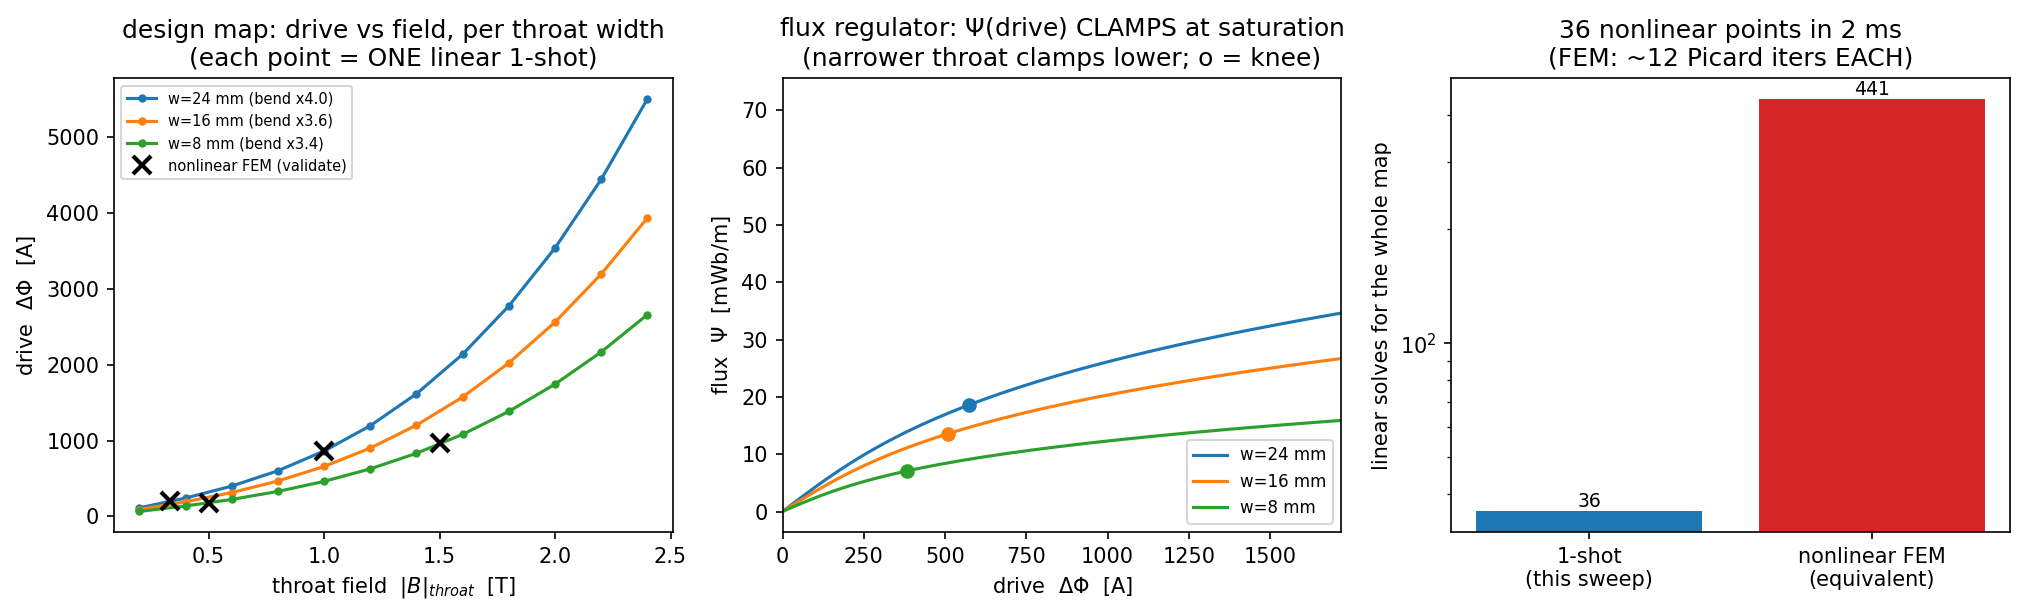
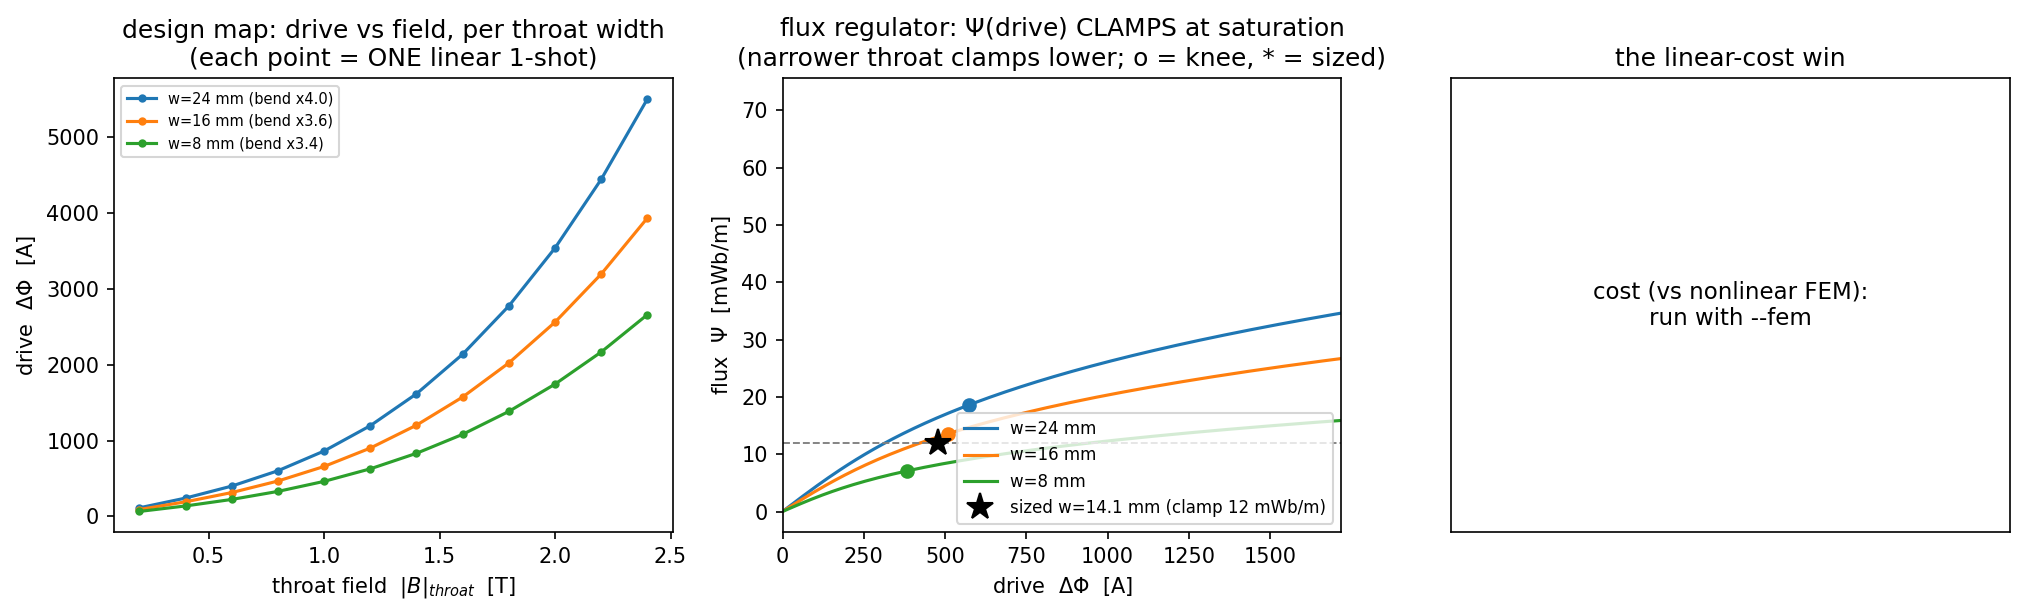
clebsch-hodograph: inverse design (spec -> geometry) at linear cost, FEM-verified
Continues the saturation pillar of the hodograph line (the BDM 2026-06-26 report).
The Chaplygin design sweep already gave the forward map + flux-regulator clamp at
linear cost; this adds the engineer's actual step -- spec -> geometry -- which was
missing.

- chaplygin_design_sweep_2d.py: size_for_clamp(target) sizes the throat so the flux
  regulator CLAMPS at a target flux, by bisecting the throat depth (the clamp knee is
  monotone in depth). A handful of mesh-free 1-shot quadratures, sub-second, hits the
  target to machine precision (12 mWb/m -> w = 14.1 mm). run(with_fem=True) then
  CLOSES the design loop: the sized design is confirmed by the full nonlinear FEM
  (1-shot 477 A vs FEM 483 A, 1.2 %). _plot marks the sized design on the clamp panel.
- Goldens: test_chaplygin_inverse_design_sizing (fast: hits target, sub-second,
  target in feasible range) + the loop-close assertion in
  test_chaplygin_design_sweep_vs_fem (slow).

This is the inverse half of "the hodograph makes saturation a coefficient": not just
explore the nonlinear design space at linear cost, but size a part to a spec and
verify it -- a real design loop, at linear cost.

diff --git a/examples/clebsch_hodograph/chaplygin_design_sweep_2d.py b/examples/clebsch_hodograph/chaplygin_design_sweep_2d.py
@@ -155,6 +155,44 @@ def validate_vs_fem(samples=((0.012, (0.008, 0.024)),), mur0=200.0, Bk=1.0,
     }
 
 
+def size_for_clamp(target_clamp_Psi, H=0.04, depth_lo=0.002, depth_hi=0.0195,
+                   n_bisect=42, **kw):
+    """INVERSE DESIGN at linear cost: size the throat so the flux regulator CLAMPS at a
+    target flux level (the knee flux ``target_clamp_Psi``).  This is the engineer's
+    actual step -- spec -> geometry -- not just a forward sweep.  The clamp knee
+    ``knee_Psi`` is monotone-DECREASING in the throat depth (a narrower throat clamps
+    lower), so bisect on the depth; every candidate is a handful of 1-shot quadratures,
+    so the whole sizing is milliseconds and mesh-free.  Returns the sized geometry and
+    the achieved clamp (verify it against the full nonlinear FEM via ``validate_vs_fem``
+    at the sized depth to CLOSE the design loop)."""
+    t0 = time.perf_counter()
+
+    def knee(d):
+        return transfer_curve(d, H=H, **kw)["knee_Psi"]
+
+    lo, hi = depth_lo, depth_hi
+    klo, khi = knee(lo), knee(hi)                     # klo (wide) > khi (narrow)
+    for _ in range(n_bisect):
+        mid = 0.5 * (lo + hi)
+        if knee(mid) > target_clamp_Psi:             # too much clamp flux -> narrow it
+            lo = mid
+        else:
+            hi = mid
+    depth = 0.5 * (lo + hi)
+    tc = transfer_curve(depth, H=H, **kw)
+    return {
+        "target_clamp_Psi": float(target_clamp_Psi),
+        "sized_depth": float(depth),
+        "sized_w_throat": float(H - 2.0 * depth),
+        "achieved_knee_Psi": float(tc["knee_Psi"]),
+        "achieved_knee_drive": float(tc["knee_drive"]),
+        "achieved_knee_B": float(tc["knee_B"]),
+        "rel_err": float(abs(tc["knee_Psi"] - target_clamp_Psi) / target_clamp_Psi),
+        "sizing_seconds": float(time.perf_counter() - t0),
+        "feasible_Psi_range": [float(khi), float(klo)],   # [narrowest, widest]
+    }
+
+
 def cost_summary(mp, val):
     """The linear-cost win: M map points at 1 quadrature each vs the equivalent
     nonlinear FEM (M points x mean Picard iterations linear solves)."""
@@ -169,15 +207,19 @@ def cost_summary(mp, val):
     }
 
 
-def run(with_fem=False):
+def run(with_fem=False, target_clamp_mWb=12.0):
     mp = design_map()
     curves = [transfer_curve(d) for d in mp["depths"]]
-    out = {"design_map": mp, "transfer": curves}
+    sizing = size_for_clamp(target_clamp_mWb * 1e-3)        # spec -> geometry (linear cost)
+    out = {"design_map": mp, "transfer": curves, "sizing": sizing}
     if with_fem:
         val = validate_vs_fem(samples=((0.008, (0.008, 0.024)),
                                        (0.016, (0.004, 0.012))))
         out["validation"] = val
         out["cost"] = cost_summary(mp, val)
+        # CLOSE the design loop: FEM-verify the SIZED design at its clamp knee.
+        out["sizing_fem"] = validate_vs_fem(
+            samples=((sizing["sized_depth"], (sizing["achieved_knee_Psi"],)),))
     return out
 
 
@@ -208,8 +250,15 @@ def _plot(out):
         axB.plot(np.array(c["drive"]), np.array(c["Psi"]) * 1e3, "-", color=colors[i % 4],
                  label=f"w={c['w_throat']*1e3:.0f} mm")
         axB.plot(c["knee_drive"], c["knee_Psi"] * 1e3, "o", color=colors[i % 4], ms=6)
+    sz = out.get("sizing")
+    if sz is not None:                                # the INVERSE design: spec -> width
+        axB.axhline(sz["target_clamp_Psi"] * 1e3, color="0.5", ls="--", lw=0.9)
+        axB.plot(sz["achieved_knee_drive"], sz["achieved_knee_Psi"] * 1e3, "*",
+                 color="k", ms=13,
+                 label=f"sized w={sz['sized_w_throat']*1e3:.1f} mm "
+                       f"(clamp {sz['target_clamp_Psi']*1e3:.0f} mWb/m)")
     axB.set_xlabel("drive  $\\Delta\\Phi$  [A]"); axB.set_ylabel("flux  $\\Psi$  [mWb/m]")
-    axB.set_title("flux regulator: $\\Psi$(drive) CLAMPS at saturation\n(narrower throat clamps lower; o = knee)")
+    axB.set_title("flux regulator: $\\Psi$(drive) CLAMPS at saturation\n(narrower throat clamps lower; o = knee, * = sized)")
     axB.set_xlim(0, max(c["knee_drive"] for c in out["transfer"]) * 3.0)
     axB.legend(fontsize=8, loc="lower right")
 
@@ -250,6 +299,18 @@ def main():
         print(f"    w_throat = {c['w_throat']*1e3:4.0f} mm:  clamp knee at Psi = {c['knee_Psi']*1e3:.2f} "
               f"mWb/m  (B_throat = {c['knee_B']:.2f} T, drive = {c['knee_drive']:.0f} A)")
     print(f"    -> a narrower throat clamps the flux at a LOWER level (knee Psi ~ Bk*w_throat).")
+    sz = out["sizing"]
+    print(f"  INVERSE DESIGN (spec -> geometry, linear cost):")
+    print(f"    target clamp Psi = {sz['target_clamp_Psi']*1e3:.1f} mWb/m"
+          f"  ->  sized throat w = {sz['sized_w_throat']*1e3:.2f} mm"
+          f"  (depth {sz['sized_depth']*1e3:.2f} mm)")
+    print(f"    achieved clamp = {sz['achieved_knee_Psi']*1e3:.2f} mWb/m "
+          f"(rel.err {sz['rel_err']:.1e}) at drive {sz['achieved_knee_drive']:.0f} A, "
+          f"sized in {sz['sizing_seconds']*1e3:.1f} ms")
+    if "sizing_fem" in out:
+        sf = out["sizing_fem"]["rows"][0]
+        print(f"    FEM check of the sized design: 1-shot {sf['one_shot_drive']:.1f} A "
+              f"vs FEM {sf['fem_drive']:.1f} A (rel.err {sf['rel_err']:.1e}) -> design loop CLOSED")
     if with_fem:
         val, cost = out["validation"], out["cost"]
         print(f"  nonlinear FEM validation (Picard loop at {len(val['rows'])} sample points):")

diff --git a/tests/feec/test_clebsch_hodograph_research.py b/tests/feec/test_clebsch_hodograph_research.py
@@ -685,6 +685,23 @@ def test_chaplygin_design_sweep_linear_cost():
         assert 0.4 * c["w_throat"] < c["knee_Psi"] < 1.2 * c["w_throat"], c
 
 
+def test_chaplygin_inverse_design_sizing():
+    """INVERSE DESIGN at linear cost: spec -> geometry.  Size the throat so the flux
+    regulator CLAMPS at a TARGET flux (the knee), by bisecting the throat depth -- the
+    clamp knee is monotone in depth, so a handful of mesh-free 1-shot quadratures (no
+    Picard, no mesh) hit the target to machine precision.  This is the engineer's actual
+    step (spec -> geometry), not just a forward sweep."""
+    pytest.importorskip("ngsolve")
+    pytest.importorskip("netgen.occ")
+    import chaplygin_design_sweep_2d as ds
+    sz = ds.size_for_clamp(12.0e-3)
+    assert sz["rel_err"] < 1e-6, sz                      # hits the target clamp flux
+    assert sz["sizing_seconds"] < 2.0, sz                # sub-second, mesh-free
+    lo, hi = sz["feasible_Psi_range"]
+    assert lo < sz["target_clamp_Psi"] < hi, sz          # target inside feasible range
+    assert 0.0 < sz["sized_w_throat"] < 0.04, sz         # a physical throat width
+
+
 @pytest.mark.slow
 def test_chaplygin_design_sweep_vs_fem():
     """Validate the LINEAR design sweep against the full NONLINEAR FEM Picard loop: the
@@ -701,6 +718,9 @@ def test_chaplygin_design_sweep_vs_fem():
     # the whole map is one quadrature per point; the equivalent FEM is many solves.
     assert cost["one_shot_solves"] == cost["map_points"], cost
     assert cost["fem_equiv_linear_solves"] > 5 * cost["one_shot_solves"], cost
+    # the design loop CLOSES: the inverse-sized design is confirmed by the nonlinear FEM.
+    sf = out["sizing_fem"]["rows"][0]
+    assert sf["rel_err"] < 5e-2, sf
 
 
 def test_chaplygin_turning_design_sweep_linear():

diff --git a/examples/clebsch_hodograph/README.md b/examples/clebsch_hodograph/README.md
@@ -233,9 +233,17 @@ Picard** at sample points: the 1-shot agrees to **~1–2 %** (slenderness-limite
 and each FEM point costs **~12 Picard iterations**. So the whole map = **36
 quadratures** vs the equivalent **~440 curved-mesh linear solves** the nonlinear
 FEM would need — the **entire nonlinear design space explored at linear cost**,
-where the Picard sweep would be prohibitive. Figure:
-`chaplygin_design_sweep_2d.png` (design map | the clamp curves | the cost bar).
-Goldens `test_chaplygin_design_sweep_*` (map+clamp fast, FEM-validate+cost slow).
+where the Picard sweep would be prohibitive. **Inverse design (spec → geometry)**:
+`size_for_clamp(target)` sizes the throat so the regulator **clamps at a target
+flux** by bisecting the throat depth (the clamp knee is monotone in depth) — a
+handful of mesh-free 1-shot quadratures, **sub-second**, hitting the target to
+machine precision (e.g. **12 mWb/m → w = 14.1 mm**); the **sized design is then
+confirmed by the full nonlinear FEM** (1-shot 477 A vs FEM 483 A, **1.2 %**) — the
+**design loop closes**. This is the engineer's actual step (spec → geometry), not
+just a forward sweep. Figure: `chaplygin_design_sweep_2d.png` (design map | the
+clamp curves with the sized design ★ | the cost bar). Goldens
+`test_chaplygin_design_sweep_*` + `test_chaplygin_inverse_design_sizing` (sizing
+fast, FEM-validate+cost+loop-close slow).
 *Honest scope: the 1-shot is the slender-guide limit (its error is the
 slenderness error); a guide that **turns** needs the linear hodograph PDE
 (`chaplygin_turning_guide_2d.py`) — still one **linear** solve per case, so the
